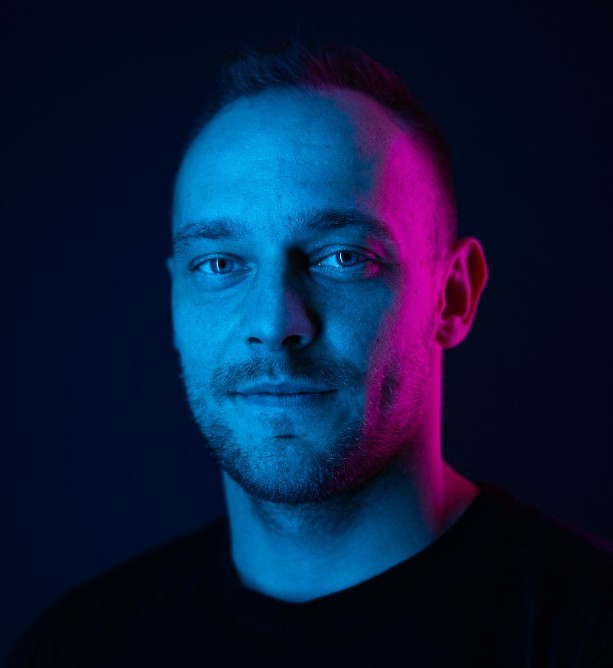
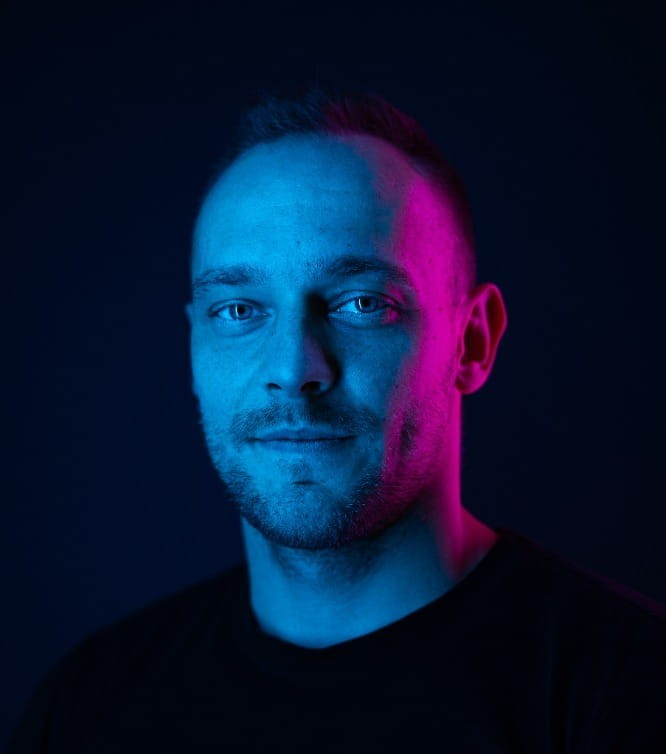
delete unused styles, files etc

Changed region(s): [[0.124, 0.0599, 0.8059, 0.9281]]

diff --git a/project-features/shared/shared-features/header-feature/header-feature.html b/project-features/shared/shared-features/header-feature/header-feature.html
@@ -1,19 +1,21 @@
 <header class="header-wrapper d-flex align-items-center justify-content-end px-3">
-  <div class="d-flex align-items-center justify-content-center">
-    <div style="min-width: 8rem" class="d-flex align-items-center justify-content-center me-1">
-      @if (_themeService.currentTheme() === ThemeType.Dark) {
-        <img class="lang-icon me-1" alt="Switcher icons" src="moon.png">
-      }
-      @if (_themeService.currentTheme() === ThemeType.Light) {
-        <img class="lang-icon me-1" alt="Switcher icons" src="sun.png">
-      }
-      <app-theme-switcher></app-theme-switcher>
-    </div>
+  <div class="d-flex align-items-center me-4">
+    @if (_themeService.currentTheme() === ThemeType.Dark) {
+      <img class="lang-icon me-1" width="24"
+           height="24" alt="Switcher icons" src="moon.png">
+    }
+    @if (_themeService.currentTheme() === ThemeType.Light) {
+      <img class="lang-icon me-1" width="24"
+           height="24" alt="Switcher icons" src="sun.png">
+    }
+    <app-theme-switcher></app-theme-switcher>
   </div>
-  <div #langDiv class="me-1" style="position: relative;">
-    <button type="button" aria-label="Lang menu" class="lang-button-setup d-flex justify-content-center align-items-center p-2 me-4"
+  <div #langDiv class="me-1 position-relative">
+    <button type="button" aria-label="Lang menu"
+            class="lang-button-setup d-flex align-items-center p-2 me-2"
             (click)="toggleLangSection()">
-      <img class="lang-icon me-2" alt="Country image"
+      <img width="24"
+           height="24" class="lang-icon me-2" alt="Country image"
            [src]="_langChangeService.currentLanguage() === 'pl'
     ? 'poland.png'
     : 'united-kingdom.png'"
@@ -24,12 +26,13 @@
       <div class="lang-list-wrapper d-flex flex-column p-2"
            [@expandCollapse]="_langChangeService.isLangListOpen() ? 'expanded' : 'collapsed'">
         @for (item of langOptionList; track $index) {
-          <button [aria-label]="item.alt" type="button" class="d-flex align-items-center justify-content-start lang-button mt-1 mb-1"
+          <button [aria-label]="item.alt" type="button"
+                  class="d-flex align-items-center lang-button mt-1 mb-1"
                   (click)="_langChangeService.onChangeLang(item.id)">
-            <img class="lang-icon me-2" [alt]="item.alt"
+            <img class="lang-icon  me-2" [alt]="item.alt"
                  [src]="item.img"
             />
-            <p style="margin: 0 0 0 0;">
+            <p>
               {{ item.label | translateFallback: item.fallback }}
             </p>
           </button>

diff --git a/src/app/app.routes.ts b/src/app/app.routes.ts
@@ -6,9 +6,7 @@ import { AboutMePage } from '../../project-features/features/about-me-page/about
 import { ExperiencePage } from '../../project-features/features/experience-page/experience-page';
 import { ExperienceShell } from '../../project-features/shells/experience-shell/experience-shell';
 import { ContactShell } from '../../project-features/shells/contact-shell/contact-shell';
-import { ContactPage } from '../../project-features/features/contact-page/contact-page';
 import { ProjectsShell } from '../../project-features/shells/projects-shell/projects-shell';
-import { ProjectsPage } from '../../project-features/features/projects-page/projects-page';
 
 export const routes: Routes = [
   {
@@ -34,7 +32,9 @@ export const routes: Routes = [
       {
         path: '',
         pathMatch: 'full',
-        component: AboutMePage,
+        loadComponent: () =>
+          import('../../project-features/features/about-me-page/about-me-page')
+            .then(m => m.AboutMePage),
       },
     ],
   },
@@ -45,7 +45,9 @@ export const routes: Routes = [
       {
         path: '',
         pathMatch: 'full',
-        component: ExperiencePage,
+        loadComponent: () =>
+          import('../../project-features/features/experience-page/experience-page')
+            .then(m => m.ExperiencePage)
       },
     ],
   },
@@ -56,7 +58,9 @@ export const routes: Routes = [
       {
         path: '',
         pathMatch: 'full',
-        component: ContactPage,
+        loadComponent: () =>
+        import('../../project-features/features/contact-page/contact-page')
+          .then(m => m.ContactPage)
       },
     ],
   },
@@ -67,7 +71,9 @@ export const routes: Routes = [
       {
         path: '',
         pathMatch: 'full',
-        component: ProjectsPage,
+        loadComponent: () =>
+          import('../../project-features/features/projects-page/projects-page')
+            .then(m => m.ProjectsPage)
       },
     ],
   },

diff --git a/project-features/shared/shared-features/theme-switcher/theme-switcher.scss b/project-features/shared/shared-features/theme-switcher/theme-switcher.scss
@@ -2,15 +2,14 @@
 @use "sass:map";
 
 .switcher {
-  --switcher-width: 50px;
-  --switcher-height: 25px;
+  --switcher-width: 3.125rem;
+  --switcher-height: 1.56rem;
   position: relative;
   display: inline-block;
   width: var(--switcher-width);
   height: var(--switcher-height);
-
   background: var(--contrast-background);
-  border-radius: 34px;
+  border-radius: 0.8rem;
   cursor: pointer;
 }
 
@@ -23,10 +22,10 @@
 
 .slider {
   position: absolute;
-  left: 2px;
-  top: 2px;
-  width: 21px;
-  height: 21px;
+  left: 4%;
+  top: 8%;
+  width: 1.31rem;
+  height: 1.31rem;
   background: var(--main-background);
   border-radius: 50%;
   transition: 0.3s;

diff --git a/project-features/features/about-me-page/about-me-page.html b/project-features/features/about-me-page/about-me-page.html
@@ -1,7 +1,7 @@
 <div class="page-wrapper h-100 px-4 py-3">
   <div class="d-flex align-items-center">
-    <div class="d-flex align-items-center justify-content-center me-4">
-      <img class="photo-wrapper" src="photo.jpg" alt="customer">
+    <div class="img-wrapper d-flex align-items-center justify-content-center me-4">
+      <img src="more.png" alt="customer">
     </div>
     <p>{{'contactPage.aboutMe' | translateFallback: 'O mnie'}}</p>
   </div>

diff --git a/project-features/features/experience-page/experience-page.html b/project-features/features/experience-page/experience-page.html
@@ -1,7 +1,7 @@
 <div class="page-wrapper h-100 px-4 py-3">
   <div class="d-flex align-items-center">
     <div class="img-wrapper d-flex align-items-center justify-content-center me-4">
-      <img src="experience.png" alt="experience">
+      <img src="job-seeker.png" alt="experience">
     </div>
     <p>{{'contactPage.experience' | translateFallback: 'Kariera'}}</p>
   </div>

diff --git a/project-features/features/main-page/main-page.html b/project-features/features/main-page/main-page.html
@@ -1,4 +1,4 @@
-<div class="main-page-wrapper d-flex align-items-center">
+<div class="main-page-wrapper d-flex align-items-center justify-content-between">
   <app-type-write-feature></app-type-write-feature>
   <div class="text-wrapper d-flex align-items-end">
     <p>

diff --git a/project-features/features/main-page/main-page.scss b/project-features/features/main-page/main-page.scss
@@ -1,7 +1,5 @@
 .main-page-wrapper {
   height: 95%;
-  justify-content: space-between;
-  align-items: center;
 }
 
 .text-wrapper {

diff --git a/project-features/features/projects-page/projects-page.html b/project-features/features/projects-page/projects-page.html
@@ -1,7 +1,7 @@
 <div class="page-wrapper h-100 px-4 py-3">
   <div class="d-flex align-items-center">
     <div class="img-wrapper d-flex align-items-center justify-content-center me-4">
-      <img src="work.png" alt="work">
+      <img src="folder.png" alt="work">
     </div>
     <p>{{'contactPage.projects' | translateFallback: 'Projekty'}}</p>
   </div>

diff --git a/project-features/shared/shared-features/footer-feature/footer-feature.html b/project-features/shared/shared-features/footer-feature/footer-feature.html
@@ -1,3 +1,3 @@
-<footer class="footer-wrapper text-center d-flex align-items-center justify-content-center">
+<footer class="footer-wrapper text-center">
   <p>WizzardsDev © 2026. {{ 'footerComponent.text' | translateFallback: 'Wszelkie prawa zastrzeżone.'}}</p>
 </footer>

diff --git a/src/index.html b/src/index.html
@@ -5,7 +5,7 @@
     <title>Portfolio - Paweł Król</title>
     <base href="/" />
     <meta name="viewport" content="width=device-width, initial-scale=1" />
-    <link rel="icon" type="image/svg+xml" href="icon.svg" />
+    <link rel="icon"  type="image/svg+xml" href="icon.svg" />
   </head>
   <body>
     <app-root></app-root>